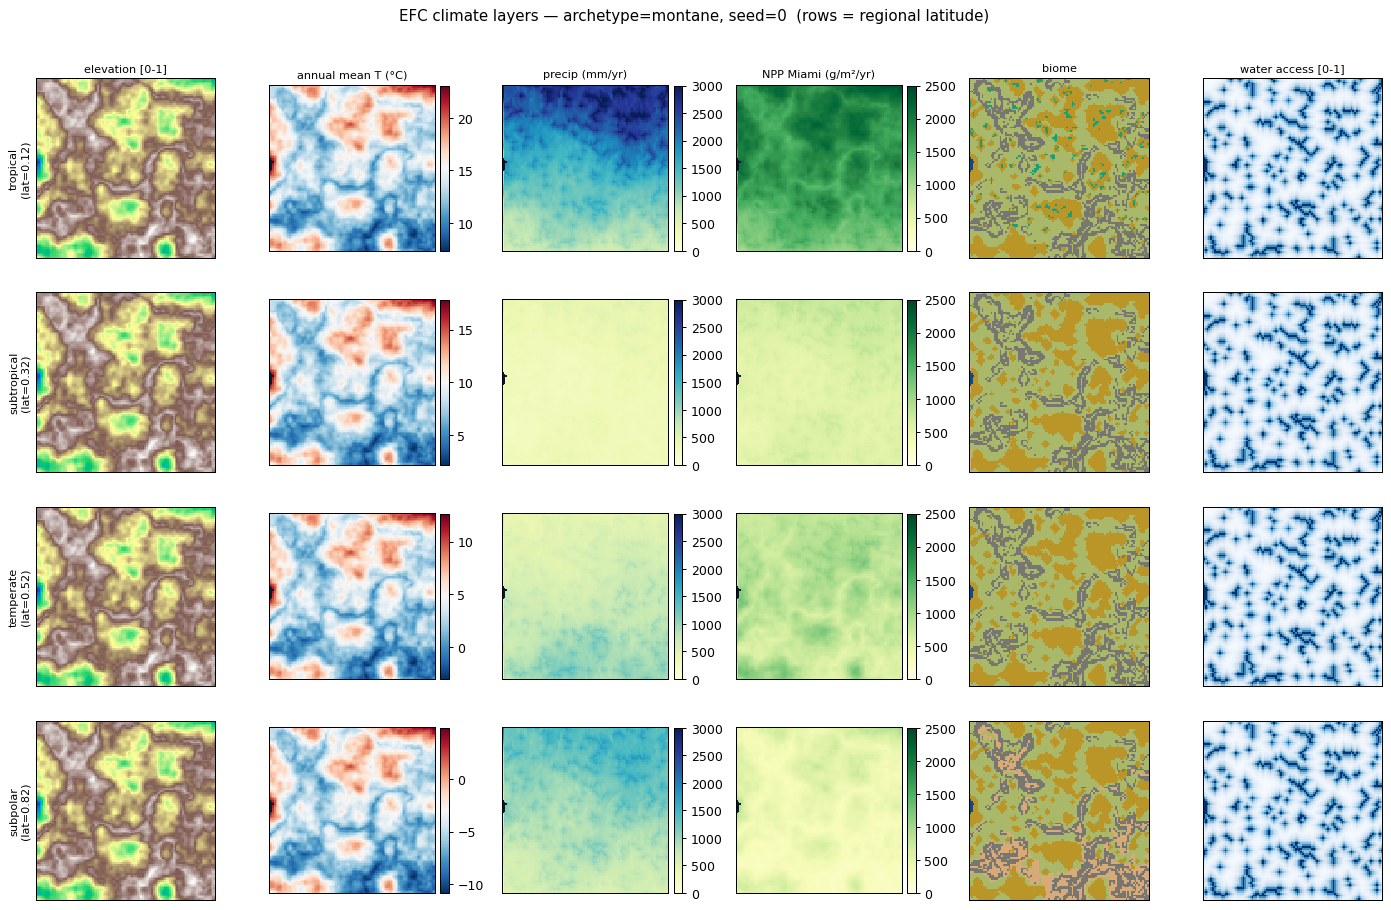
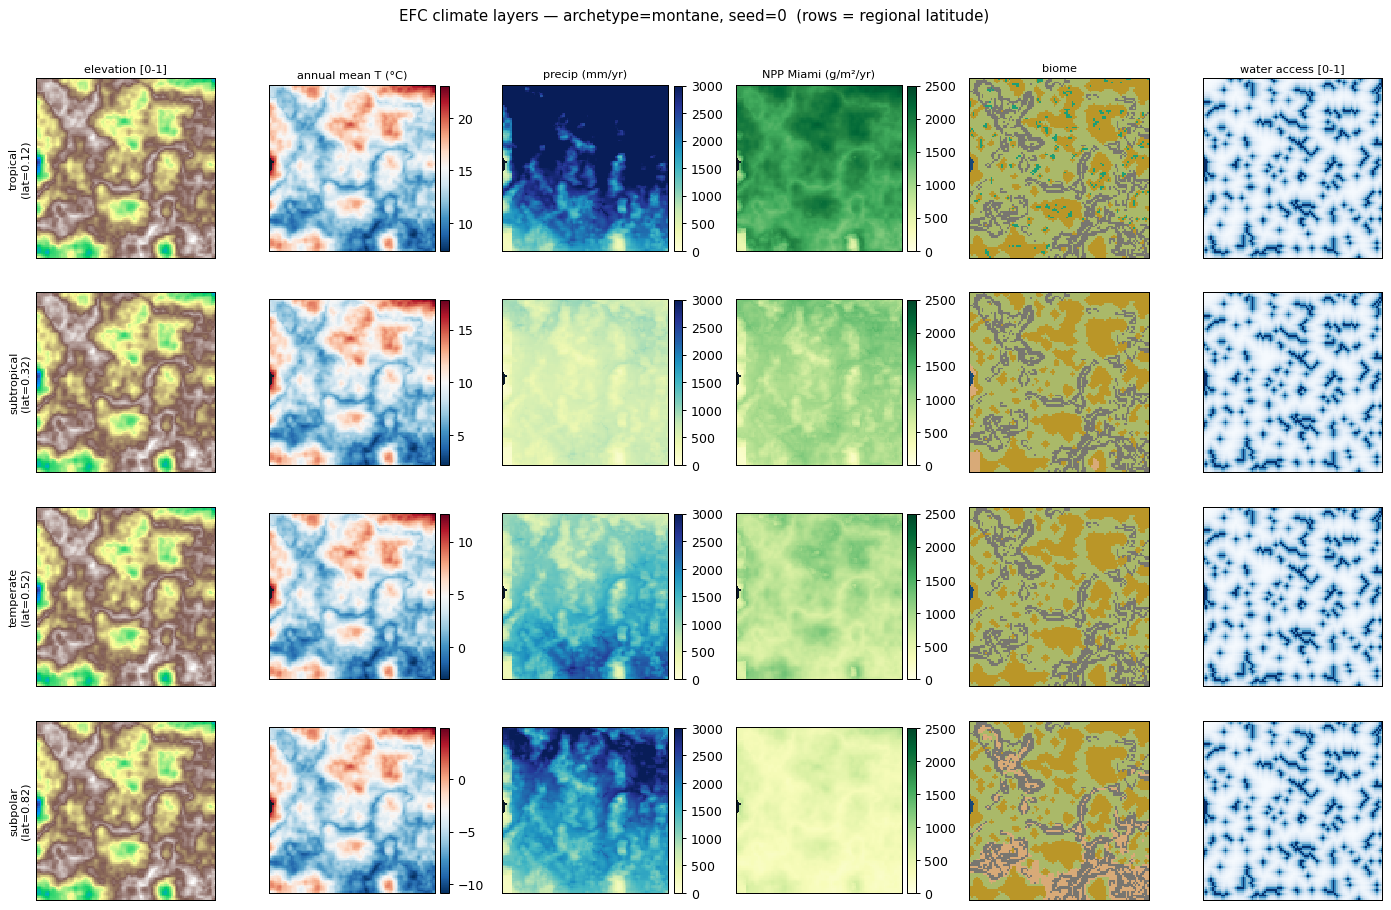
EFC C2: real orographic precipitation (uplift + multi-cell rain shadow)
Supervisor eyeball: precip behaviour was confusing. Diagnosed: precip barely
tracked terrain -- corr(precip,elevation)=-0.04 -- it was regional-band x maritime
x noise with a weak 1-cell shadow, so mountains were invisible in precip (unlike
temperature). Real precip is orography-dominated (mountains wet, lee dry).

Fix (climate mode only; legacy bit-exact): (i) elevation UPLIFT term (high ground
wetter, x(1+1.6*elev)); (ii) multi-cell RAIN SHADOW (a cell downwind of high
terrain is dry -- upwind max elevation over 6 cells x shadow gain).

Result: corr(precip,elevation) -0.04 -> +0.51; high-ground precip 1284mm vs
rain-shadow lee 316mm (4x, the Cascades pattern); precip range 169-2495mm. Precip
now shows the mountains like temperature does. Re-rendered contact sheet confirms.
Fixed 1 test (subtropical dryness now checks dry cells/percentile, not mean,
since uplift raises the mean where there is terrain). Full suite 649 passed.

diff --git a/sic_games/src/sic_games/terrain.py b/sic_games/src/sic_games/terrain.py
@@ -284,11 +284,17 @@ P_ITCZ_WIDTH     = 0.15       # ITCZ Gaussian half-width in lat_frac
 P_MIDLAT_MM      = 1100.0     # mid-latitude storm-track wet peak
 P_MIDLAT_CENTER  = 0.70       # lat_frac of the mid-latitude peak (~50° on the equator→subpolar span)
 P_MIDLAT_WIDTH   = 0.18       # mid-latitude Gaussian half-width
-P_ORO_GAIN       = 1.0        # orographic: windward (rising in wind dir) wetter, lee (rain-shadow) drier
-P_ORO_MIN        = 0.5        # clamp on the orographic multiplier (leeward shadow floor)
-P_ORO_MAX        = 1.8        # clamp on the orographic multiplier (windward enhancement cap)
+# Orographic precipitation — the DOMINANT terrain control (mountains wet, lee dry). Two parts:
+#  (i) UPLIFT: air forced up high ground cools & rains → precip rises with elevation (windward + peaks very wet);
+#  (ii) RAIN SHADOW: cells DOWNWIND of high terrain are dry (the air already dumped its moisture) — a multi-cell
+#       shadow (a big range dries ~tens of km to its lee, e.g. Cascades → high desert). Prevailing wind = +x.
+P_ELEV_UPLIFT      = 1.6      # elevation → orographic uplift multiplier (elev=1 ⇒ ×(1+1.6)=2.6 wetter)
+P_ORO_SHADOW_CELLS = 6        # rain-shadow reach: max upwind elevation is taken over this many cells (≈60 km)
+P_ORO_SHADOW_GAIN  = 1.6      # drying strength in the lee of upwind high terrain
+P_ORO_MIN        = 0.25       # clamp floor on the orographic multiplier (deep rain-shadow)
+P_ORO_MAX        = 3.2        # clamp cap (windward/peak enhancement)
 P_MARITIME_GAIN  = 0.3        # moisture supply: near-water (wateracc) cells wetter
-P_ORO_WIND_DX    = 1          # prevailing wind = +x (westerlies): upwind neighbour is x-1
+P_ORO_WIND_DX    = 1          # prevailing wind = +x (westerlies): upwind is to the −x (west) side
 # ── Economy-from-Climate C3 (mode="climate"): the MIAMI MODEL — NPP from temperature & precipitation ──
 # Lieth 1972/1975 (PDF filed; eqs 12-1/12-2, VERIFIED). NPP = min(temperature-limited, precipitation-limited),
 # g dry-matter/m²/yr. Coefficients are the published least-squares fit (50 sites / 5 continents). LITERATURE.md.
@@ -636,7 +642,13 @@ def generate_world(knobs: dict, mode: str = "legacy") -> WorldFields:
         itcz = P_ITCZ_MM * np.exp(-(cell_lat / P_ITCZ_WIDTH) ** 2)
         midlat = P_MIDLAT_MM * np.exp(-((cell_lat - P_MIDLAT_CENTER) / P_MIDLAT_WIDTH) ** 2)
         p_band = P_BASE_MM + itcz + midlat
-        oro = np.clip(1.0 + P_ORO_GAIN * (elev - np.roll(elev, P_ORO_WIND_DX, axis=1)), P_ORO_MIN, P_ORO_MAX)
+        # orographic uplift (high ground wetter) × rain shadow (dry in the lee of upwind high terrain)
+        uplift = 1.0 + P_ELEV_UPLIFT * elev
+        upwind_max = elev.copy()
+        for _s in range(1, P_ORO_SHADOW_CELLS + 1):
+            upwind_max = np.maximum(upwind_max, np.roll(elev, _s * P_ORO_WIND_DX, axis=1))
+        shadow = np.clip(1.0 - P_ORO_SHADOW_GAIN * np.maximum(0.0, upwind_max - elev), P_ORO_MIN, 1.0)
+        oro = np.clip(uplift * shadow, P_ORO_MIN, P_ORO_MAX)
         precip_mm = np.clip(p_band * oro * (1.0 + P_MARITIME_GAIN * wateracc) * (0.7 + 0.6 * moist), 0.0, None)
         precip_mm[isWater == 1] = 0.0
     else:

diff --git a/sic_games/tests/test_climate_temperature.py b/sic_games/tests/test_climate_temperature.py
@@ -81,30 +81,30 @@ def test_legacy_precip_zero_climate_nonzero():
     assert generate_world(k, mode="climate").precip_mm.max() > 0.0    # climate: real field
 
 
-def _region_precip(archetype, climate_latitude):
+def _region_precip_cells(archetype, climate_latitude):
     k = dict(_k(archetype)); k["climate_latitude"] = climate_latitude
     C = generate_world(k, mode="climate")
-    land = (C.isWater == 0)
-    return C.precip_mm[land].mean()
+    return C.precip_mm[C.isWater == 0]
 
 
 def test_precip_hadley_itcz_across_regions():
     """The Hadley/ITCZ regime is set by the REGIONAL latitude: equatorial (~0.05) wet, subtropical (~0.30) DRY,
-    mid-latitude (~0.70) wet again. (Within a 1000 km grid the profile is regional, not a full transect.)"""
-    eq = _region_precip("mixed", 0.05)
-    subtrop = _region_precip("mixed", 0.30)
-    midlat = _region_precip("mixed", 0.70)
-    assert eq > subtrop * 2            # equatorial ITCZ much wetter than the subtropical desert belt
-    assert midlat > subtrop            # mid-latitude storm track wetter than the subtropical trough
-    assert subtrop < 700               # subtropical region is desert-dry
+    mid-latitude (~0.70) wet again — in MEAN wetness (orography adds within-region variance on top)."""
+    eq = _region_precip_cells("mixed", 0.05).mean()
+    subtrop = _region_precip_cells("mixed", 0.30).mean()
+    midlat = _region_precip_cells("mixed", 0.70).mean()
+    assert eq > subtrop            # equatorial ITCZ region wetter than the subtropical desert belt
+    assert midlat > subtrop        # mid-latitude storm track wetter than the subtropical trough
 
 
 def test_precip_range_earthlike_across_regions():
-    """Across regional latitudes the ensemble spans desert → rainforest (a single region is narrower)."""
-    wettest = _region_precip("mixed", 0.05)      # equatorial region
-    driest = _region_precip("mixed", 0.30)       # subtropical region
-    assert wettest > 1500                        # equatorial region reaches rainforest-wet
-    assert driest < 600                          # subtropical region is desert-dry
+    """Across regional latitudes + orography the ensemble spans desert → rainforest: the equatorial region has
+    rainforest-wet cells, the subtropical region has desert-dry cells (lee/lowland), and it's drier overall."""
+    trop = _region_precip_cells("mixed", 0.05)
+    subtrop = _region_precip_cells("mixed", 0.30)
+    assert trop.max() > 2000                      # equatorial region reaches rainforest-wet somewhere
+    assert np.percentile(subtrop, 10) < 500       # subtropical region has desert-dry cells (rain-shadow/lowland)
+    assert trop.mean() > subtrop.mean()           # equatorial wetter overall
 
 
 def test_precip_orographic_windward_wetter():
